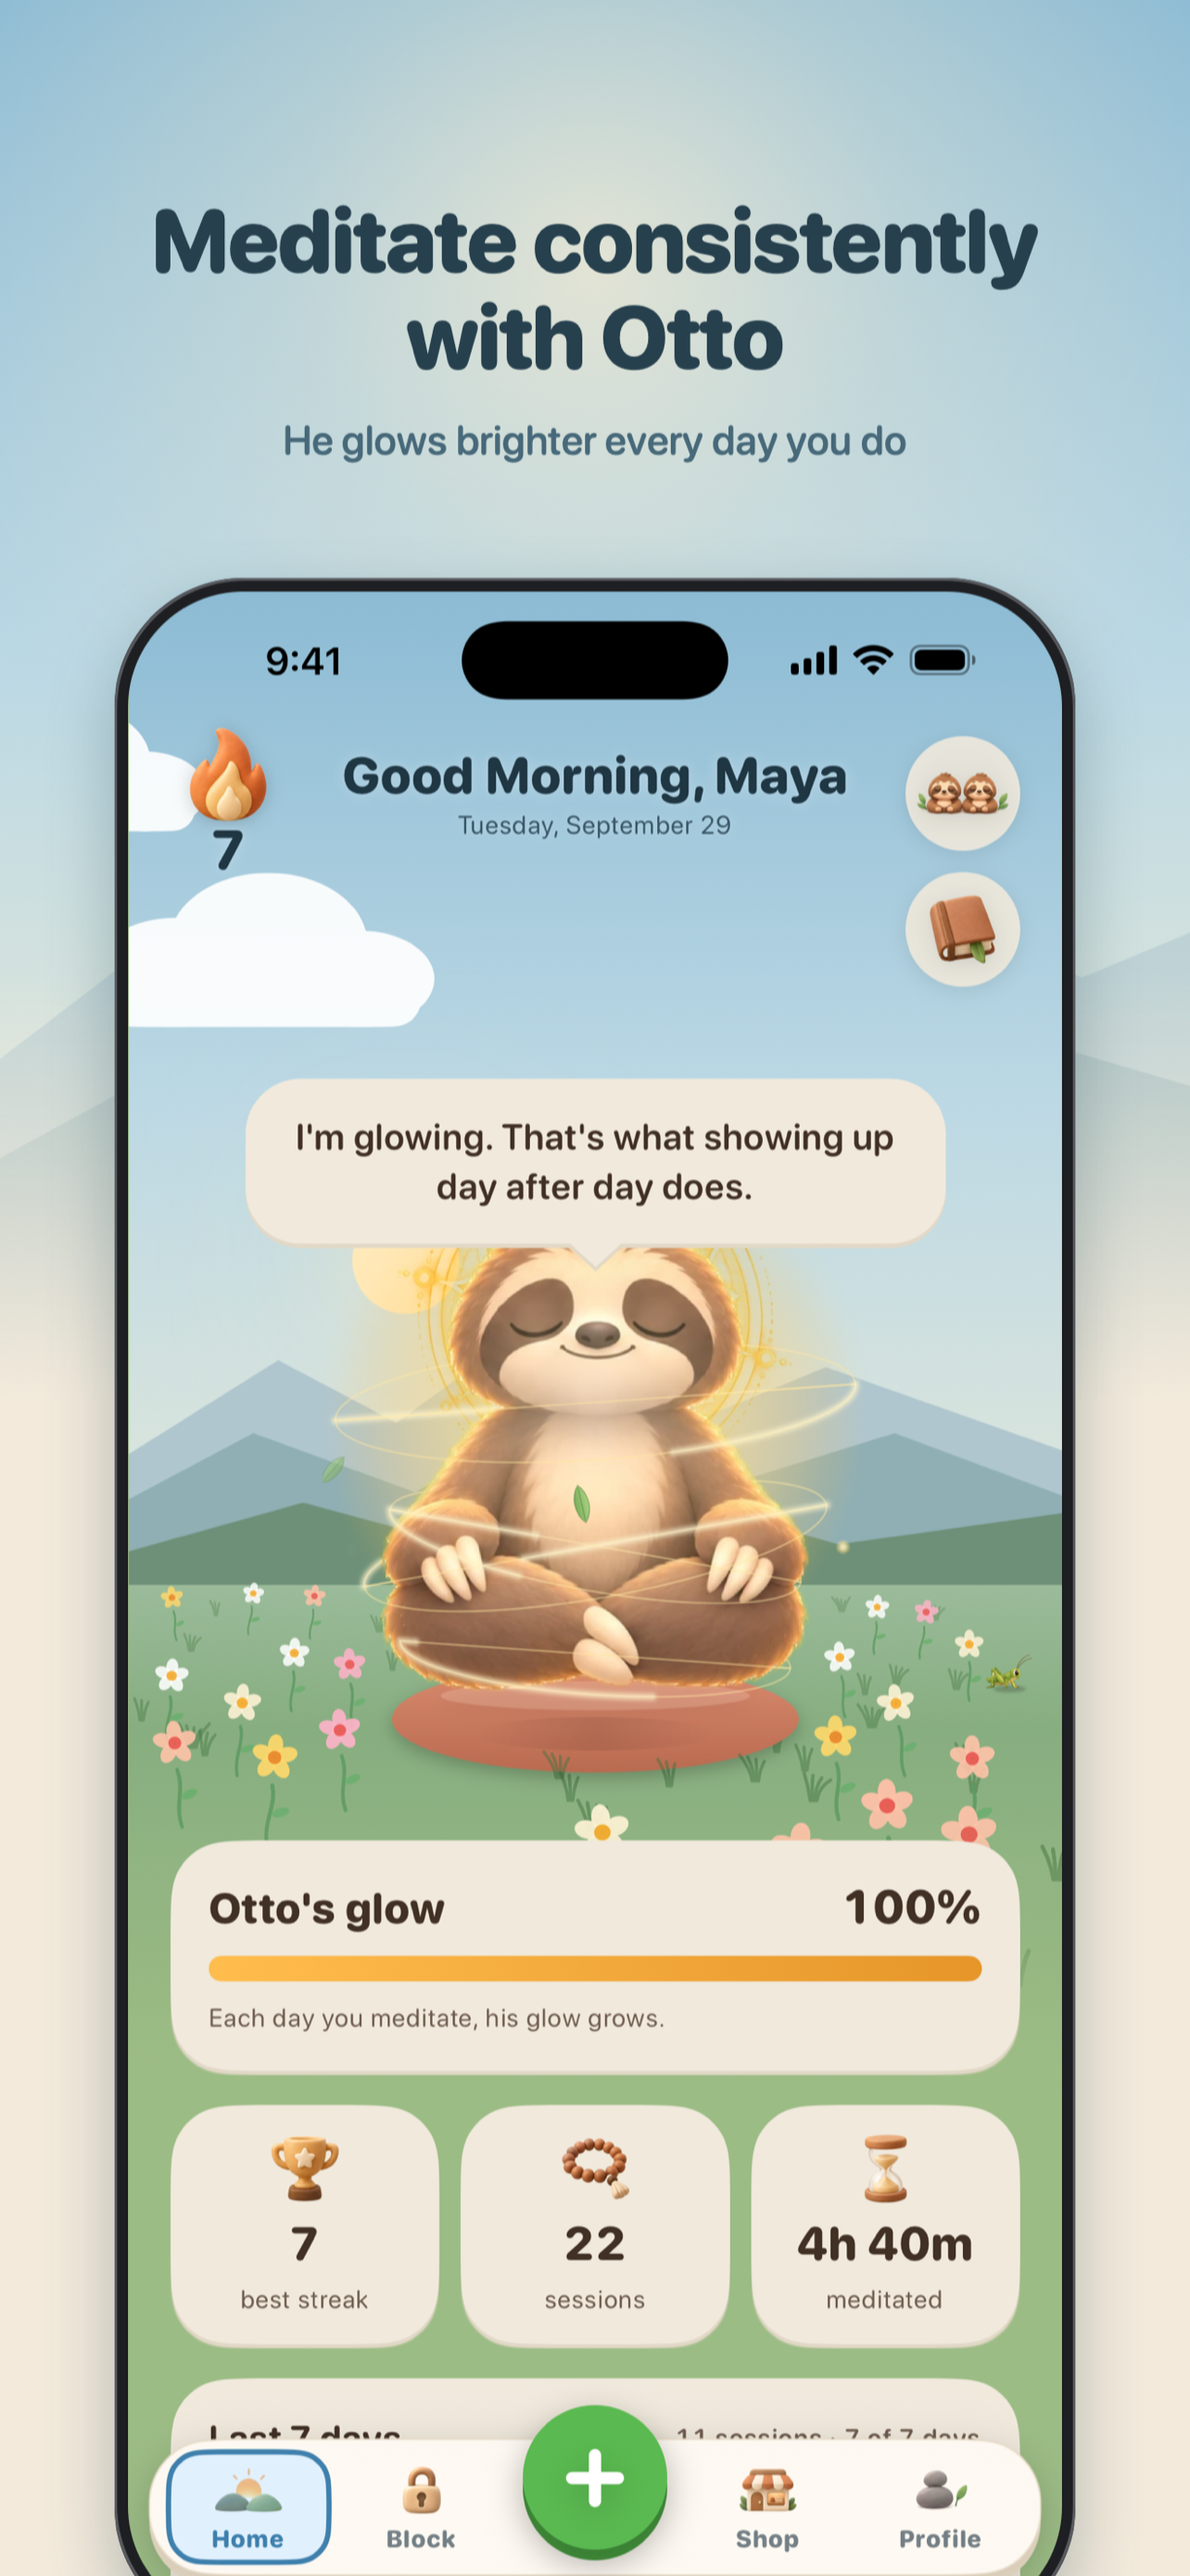
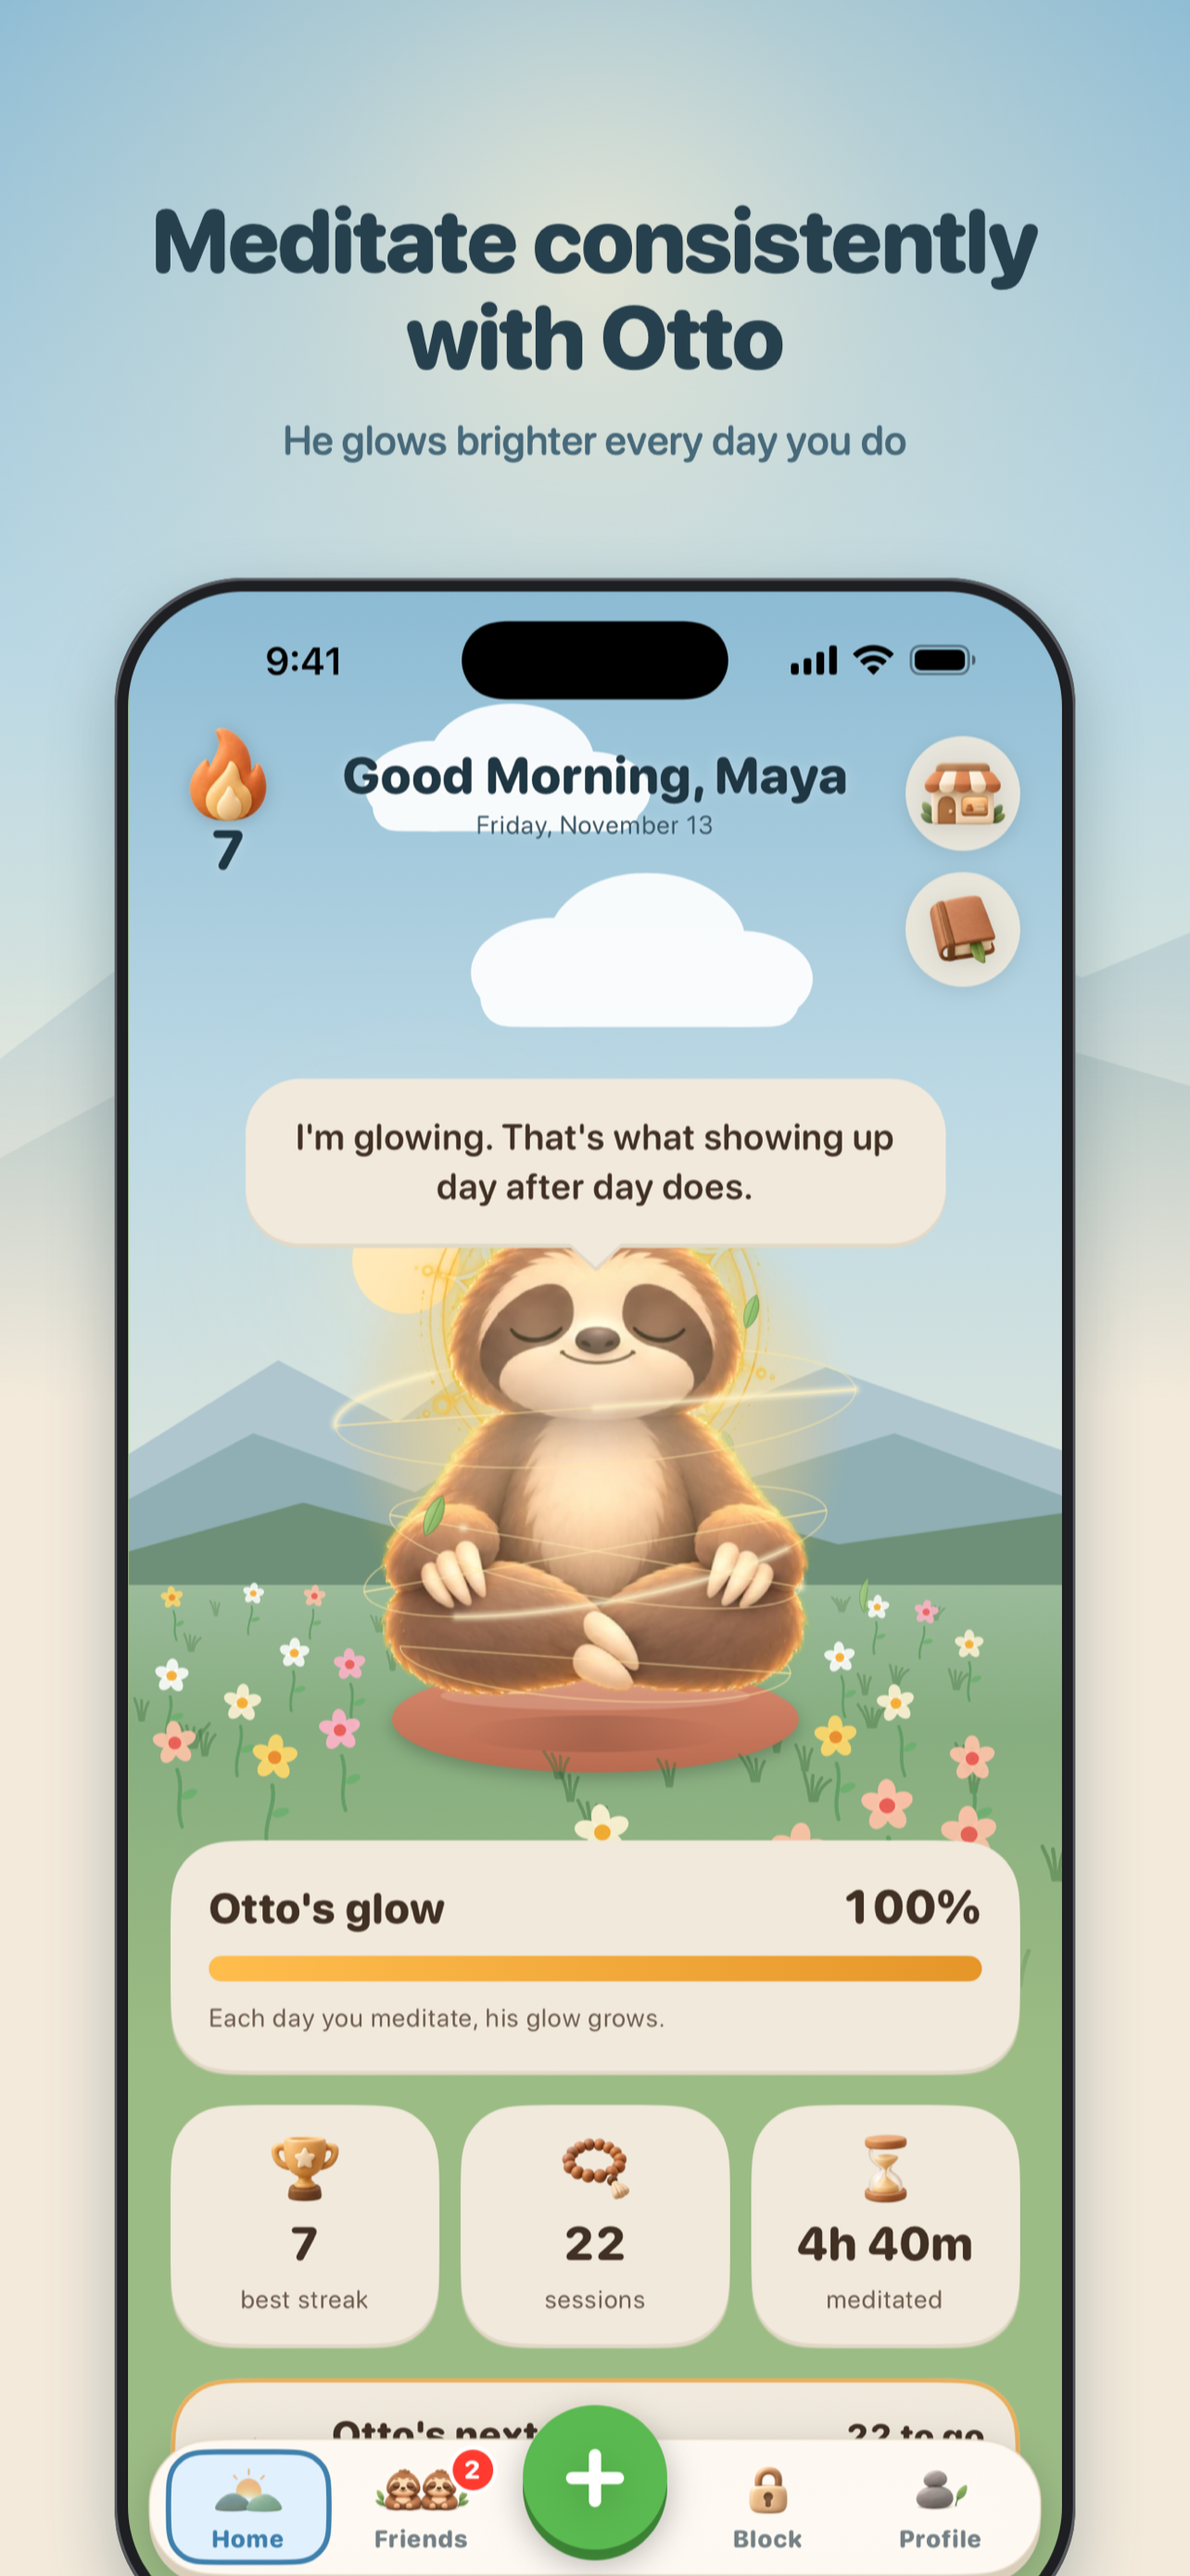
App Store screenshots reshot: Melvin's ten, with Otto's forms and the feed
- marketing/appstore-new: Otto, his next form, the block screen, the Friends
  feed, the Shop (red panda in the sun hat), Otto's forms, his texts, the
  widget (carried over), sounds, the Watch. Profile and awards dropped. 6.5"
  copies in 65/ and a new screenshots-preview.jpg.
- APP_STORE_PASTE.md: the screenshot table and captions; README: the recipe.
- DEBUG-only hooks for the shots: PREVIEW_HOME_SCROLL (Home to the next-form
  row), PREVIEW_LIFETIME (lifetime points for Otto's forms),
  PREVIEW_FEED_ANCHOR (where PREVIEW_FEED_SCROLL lands a post), and
  STORE_SHOTS=1 silences Otto's widget and Watch how-to lines on Home.

diff --git a/Coherence/ContentView.swift b/Coherence/ContentView.swift
@@ -736,6 +736,7 @@ struct ContentView: View {
             // below the guide circle, so Otto sits lower to leave it room,
             // and the cards under him move down with him.
             let sceneHeight = proxy.safeAreaInsets.top + proxy.size.height * 0.80
+            ScrollViewReader { reader in
             ScrollView {
                 VStack(spacing: 0) {
                     homeScene(width: proxy.size.width, height: sceneHeight,
@@ -748,6 +749,7 @@ struct ContentView: View {
                         statTiles
                         // Under the three tiles (Melvin, 2026-11-13).
                         formRow
+                            .id("homeFormRow")
                         calendarCard
                         proofSection
                         #if DEBUG
@@ -774,6 +776,16 @@ struct ContentView: View {
             // pinned half sky and half grass showed a band of sky behind the
             // cards as soon as the page moved.
             .background(Self.meadow.ignoresSafeArea())
+            #if DEBUG
+            // PREVIEW_HOME_SCROLL=<0...1>: scrolls Home so the "Otto's next
+            // form" row sits that far down the screen (store screenshots).
+            .task {
+                guard let y = ProcessInfo.processInfo.environment["PREVIEW_HOME_SCROLL"].flatMap(Double.init) else { return }
+                try? await Task.sleep(for: .seconds(1.5))
+                reader.scrollTo("homeFormRow", anchor: UnitPoint(x: 0.5, y: y))
+            }
+            #endif
+            }
         }
     }
 
@@ -960,13 +972,20 @@ struct ContentView: View {
     /// Otto pointing at the widget, until one is on the home screen. Silent
     /// until WidgetCenter has answered, so he never suggests one already there.
     private var widgetNudge: String? {
-        widgetPresence.sizes?.isEmpty == true ? OttoLines.widgetNudge : nil
+        #if DEBUG
+        // Store screenshots lead with his mood, not a how-to.
+        if StoreShots.on { return nil }
+        #endif
+        return widgetPresence.sizes?.isEmpty == true ? OttoLines.widgetNudge : nil
     }
 
     /// Otto pointing at the Apple Watch, until it is measuring. Said to
     /// everyone, phrased as an offer rather than as something missing:
     /// someone without a Watch hears that 808 can use one (2026-09-30).
     private var watchNudge: String? {
+        #if DEBUG
+        if StoreShots.on { return nil }
+        #endif
         switch watchLink.status {
         case .noWatch:
             return "Got an Apple Watch? Put 808 on it and I'll show how your body settled."
@@ -1036,7 +1055,12 @@ struct ContentView: View {
     /// the bar fills rather than a moment later.
     /// Every point ever earned (`OttoPoints.lifetime`): what Otto's forms follow.
     private var lifetimePoints: Int {
-        OttoPoints.lifetime(sessions: sessions, bonus: community.togetherBonus)
+        #if DEBUG
+        // PREVIEW_LIFETIME=<points>: Otto's forms as a long-time member sees
+        // them (store screenshots; pair with companion.announced.v1).
+        if let n = ProcessInfo.processInfo.environment["PREVIEW_LIFETIME"].flatMap(Int.init) { return n }
+        #endif
+        return OttoPoints.lifetime(sessions: sessions, bonus: community.togetherBonus)
     }
 
     /// Rebirths these points have earned that have not played, in order.

diff --git a/Coherence/Community/FeedView.swift b/Coherence/Community/FeedView.swift
@@ -163,7 +163,9 @@ struct FriendsHomeView: View {
                 guard !model.feed.isEmpty else { return }
                 try? await Task.sleep(for: .seconds(1))
                 if let n = env["PREVIEW_FEED_SCROLL"].flatMap(Int.init), n < model.feed.count {
-                    reader.scrollTo(model.feed[n].id, anchor: .top)
+                    // PREVIEW_FEED_ANCHOR=<0...1>: where that post's top lands.
+                    let y = env["PREVIEW_FEED_ANCHOR"].flatMap(Double.init) ?? 0
+                    reader.scrollTo(model.feed[n].id, anchor: UnitPoint(x: 0.5, y: y))
                 }
                 if let n = env["PREVIEW_POST"].flatMap(Int.init), n < model.feed.count, openPost == nil {
                     openPost = FeedOpen(id: model.feed[n].id)

diff --git a/marketing/APP_STORE_PASTE.md b/marketing/APP_STORE_PASTE.md
@@ -288,7 +288,7 @@ On Apple Watch, Otto sits in his valley. Set a session's length with the Digital
 ## Screenshots
 
 **Re-shot for 1.1 on 2026-09-29** into `marketing/appstore/` (the eight that are live). **The next version's ten are in `marketing/appstore-new/`** (`01-otto.png`
-... `10-awards.png`, with `65/` beside them), the 6.5 inch copies in `appstore/65/`, the Watch pair in
+... `10-watch.png`, with `65/` beside them and `screenshots-preview.jpg` showing all ten), the 6.5 inch copies of the live eight in `appstore/65/`, the Watch set in
 `appstore/watch/`). Framed by `tools/store_shots.swift` in the valley's
 daytime sky, SF Pro Rounded captions, a drawn generic bezel. Captured on the
 iPhone 17 Pro Max simulator from a Debug build with `STORE_SHOTS=1`, which
@@ -297,20 +297,27 @@ Release has it; how to regenerate is in `marketing/README.md`.
 
 **iPhone 6.9 inch (required). The listing leads with Otto, not Block**
 (Melvin, 2026-09-29: "Youre focusing too much on the blocking aspect, thats
-just one feature"). Upload in this order:
+just one feature"). **Reshot 2026-11-13 (Melvin's lineup)** for the release
+with Otto's forms and the Friends feed: Profile and awards dropped, the next
+form, the forms picker and the feed added. Upload in this order:
 
 | # | File | Screen | Headline | Subhead |
 |---|---|---|---|---|
 | 1 | 01-otto | Home, Otto glowing at 100%, 7-day streak | Meditate consistently with Otto | He glows brighter every day you do |
-| 2 | 02-shield | A held app's block screen ("not the doom scroll"), Otto gold | Otto blocks your apps until you meditate | Open one too soon and he lets you know |
-| 3 | 03-shop | Shop, Otto trying on the Straw Sun Hat | Collect points, buy him hats | Every minute you meditate earns a point |
-| 4 | 04-widget | Home screen with the medium and two small widgets | Otto on your home screen | Your streak and his glow at a glance |
-| 5 | 05-sounds | The plus: the Ready screen's sound list | Meditate your way | Silence, nature, tones, a guided journey or your own audio |
-| 6 | 06-texts | Otto's text thread after Ask Otto | Otto texts you before you scroll | Open a held app and he asks you to meditate first |
-| 7 | 07-profile | Profile: a preset picture, "8 friends", streak, stats, your minutes (retaken 2026-10-19 for 1.4) | Every day adds up | Your streak and your minutes at a glance |
-| 8 | 08-watch | A measured Watch session's results | Wear an Apple Watch for more | Heart rate, stillness and breathing, after each session |
-| 9 | 09-friends | Friends: a weekly goal with Priya, eight friends, every one with a picture (retaken 2026-10-19 for 1.4) | Meditate with friends | See how often your friends meditate each week |
-| 10 | 10-awards | The awards shelf, 30 of 58 | More than fifty awards | For showing up, going longer and trying new ways in |
+| 2 | 02-next-form | Home scrolled to "Otto's next form" under the three tiles (red panda silhouette, 22 to go) | Otto evolves as you meditate | Every minute brings his next form closer |
+| 3 | 03-shield | A held app's block screen ("bruh."), Otto gold palette | Otto blocks your apps until you meditate | Open one too soon and he lets you know |
+| 4 | 04-friends | The Friends feed: Priya's "Evening meditation" with photos, Maya's own post | Meditate with friends | Post your sessions and cheer each other on |
+| 5 | 05-shop | The Shop, the red panda trying on the Straw Sun Hat | Collect points, buy him hats | Every minute you meditate earns a point |
+| 6 | 06-forms | Otto's forms: sloth, red panda (worn), tiger, phoenix, dragon at 5,500 | Five forms of Otto to unlock | A red panda, a tiger, a phoenix and a dragon |
+| 7 | 07-texts | Otto's text thread after Ask Otto | Otto texts you before you scroll | Open a held app and he asks you to meditate first |
+| 8 | 08-widget | Home screen with the medium and two small widgets (unchanged from the 2026-10-13 set) | Otto on your home screen | Your streak and his glow at a glance |
+| 9 | 09-sounds | The plus: the Ready screen's sound list | Meditate your way | Silence, nature, tones, a guided journey or your own audio |
+| 10 | 10-watch | A measured Watch session's results | Wear an Apple Watch for more | Heart rate, stillness and breathing, after each session |
+
+**The 2026-10-13 ten, superseded 2026-11-13, kept for the record:** 01 Otto,
+02 shield, 03 Shop, 04 widget, 05 sounds, 06 texts, 07 Profile ("Every day
+adds up"), 08 Watch, 09 Friends list ("See how often your friends meditate
+each week"), 10 awards ("More than fifty awards").
 
 **Reworked 2026-10-13 (Aziz), in `marketing/appstore-new/`,** for the release after 1.2; `marketing/appstore/` still holds the live eight: the Block-list shot
 (2) became the block screen itself, and the widget (4) and Otto's texts (6)

diff --git a/marketing/README.md b/marketing/README.md
@@ -3,7 +3,7 @@
 ## `appstore/`
 
 The eight live iPhone 6.9" screenshots (1320x2868) for the App Store listing, in
-upload order: `01-otto` ... `08-awards`. The next version's ten (with the block screen, the widget and Otto's texts) are in `appstore-new/`, same layout. Real screens captured on the iPhone 17
+upload order: `01-otto` ... `08-awards`. The next version's ten (reshot 2026-11-13: Otto, his next form, the block screen, the Friends feed, the Shop, Otto's forms, his texts, the widget, sounds, the Watch) are in `appstore-new/`, same layout; how they were shot is under "The 2026-11-13 set" below. Real screens captured on the iPhone 17
 Pro Max simulator with a 9:41 status bar, then framed by
 `tools/store_shots.swift`: the valley's daytime sky easing into cream, the far
 ridges behind the phone, SF Pro Rounded captions in the sky's ink, one warm sun
@@ -57,6 +57,30 @@ To regenerate after a UI change (every hook below is DEBUG only):
    A `|` forces a line break in either caption; without one the subhead wraps
    evenly. It refuses a caption carrying an em or en dash, and writes RGB with
    no alpha channel.
+
+### The 2026-11-13 set (`appstore-new/`)
+
+Same base launch as above (`SKIP_ONBOARDING`, `DEMO_NAME=Maya`,
+`DEMO_USERNAME=maya`, `VALLEY_HOUR=9.7`, `PREVIEW_PAID`, `STORE_SHOTS`, plus
+`PREVIEW_NO_AWARDS=1` and `PREVIEW_HISTORY=1` everywhere). Under
+`STORE_SHOTS=1` Otto leads Home with his mood, not the widget or Watch how-to.
+
+- 01 Otto: `OTTO_AURA=100`
+- 02 Next form: `OTTO_AURA=100 PREVIEW_HOME_SCROLL=0.62` (scrolls Home so the
+  "Otto's next form" row sits 62% down)
+- 03 Shield: `PREVIEW_SHIELD_REPLICA=6 PREVIEW_SHIELD_LINE=0` (the stand-in
+  built the way iOS builds the shield, gold palette, "bruh.")
+- 04 Friends feed: `PREVIEW_TAB=friends PREVIEW_FEED_SCROLL=2 PREVIEW_FEED_ANCHOR=0.2`
+- 05 Shop: `PREVIEW_TAB=shop PREVIEW_COMPANION=redPanda PREVIEW_HAT=sunhat`
+- 06 Forms: write `companion.announced.v1 -array redPanda tiger phoenix` and
+  `companion.chosen.v1 redPanda` into the app's defaults first, then
+  `OTTO_AURA=55 PREVIEW_FORMS=1 PREVIEW_LIFETIME=3400`; delete both keys
+  after, or every later shot shows the red panda
+- 07 Texts: `PREVIEW_INTERVENTION=textThread` (the real screen, no close
+  button; `PREVIEW_UNBLOCK_KIND` is the rehearsal and draws an X)
+- 08 Widget: carried over from the 2026-10-13 set
+- 09 Sounds: `PREVIEW_SETUP=sound`
+- 10 Watch: `PREVIEW_RESULTS=1`
 
 Captions must name their subject: a store screenshot is met with no context at
 all, which is the same rule the onboarding screens follow.
